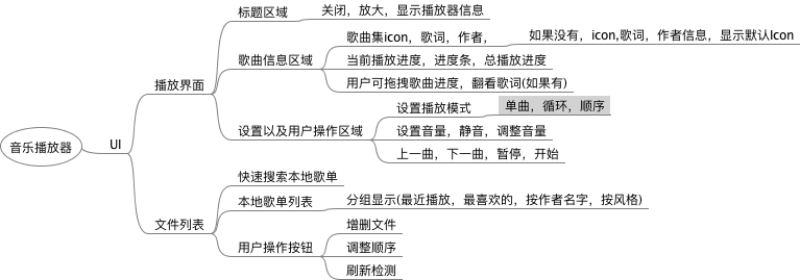
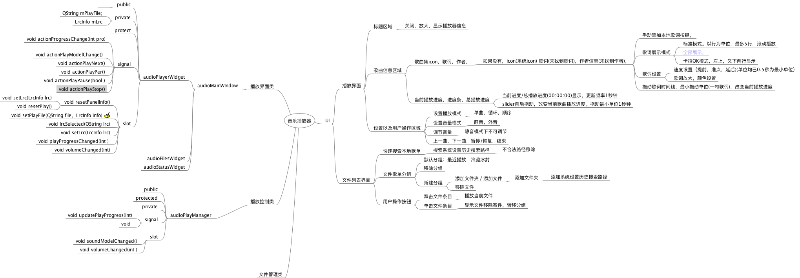
"音乐播放器重新设计"

diff --git a/音乐播放器.mm b/音乐播放器.mm
@@ -8,30 +8,149 @@
 </node>
 <node CREATED="1500030296156" ID="ID_917389368" MODIFIED="1500031225098" TEXT="&#x6b4c;&#x66f2;&#x4fe1;&#x606f;&#x533a;&#x57df;">
 <node CREATED="1500030436381" ID="ID_694683948" MODIFIED="1500030482228" TEXT="&#x6b4c;&#x66f2;&#x96c6;icon&#xff0c;&#x6b4c;&#x8bcd;&#xff0c;&#x4f5c;&#x8005;&#xff0c;">
-<node CREATED="1500031088463" ID="ID_466561370" MODIFIED="1500031114678" TEXT="&#x5982;&#x679c;&#x6ca1;&#x6709;&#xff0c;icon,&#x6b4c;&#x8bcd;&#xff0c;&#x4f5c;&#x8005;&#x4fe1;&#x606f;&#xff0c;&#x663e;&#x793a;&#x9ed8;&#x8ba4;Icon"/>
+<node CREATED="1500031088463" ID="ID_466561370" MODIFIED="1501053553922" TEXT="&#x5982;&#x679c;&#x6ca1;&#x6709;&#xff0c;icon(&#x7cfb;&#x7edf;icon),&#x6b4c;&#x8bcd;(&#x672a;&#x627e;&#x5230;&#x6b4c;&#x8bcd;)&#xff0c;&#x4f5c;&#x8005;&#x4fe1;&#x606f;(&#x672a;&#x627e;&#x5230;&#x4f5c;&#x8005;)&#xff0c;">
+<node CREATED="1501053889663" ID="ID_850002339" MODIFIED="1501055061875" TEXT="&#x624b;&#x52a8;&#x6dfb;&#x52a0;&#x672c;&#x5730;&#x6b4c;&#x8bcd;&#x6309;&#x952e;&#xff0c;"/>
+<node CREATED="1501054134580" ID="ID_1248785797" MODIFIED="1501054949606" TEXT="&#x6b4c;&#x8bcd;&#x5c55;&#x793a;&#x6a21;&#x5f0f;">
+<node CREATED="1501054952287" ID="ID_1415643732" MODIFIED="1501054959472" TEXT="&#x6807;&#x51c6;&#x6a21;&#x5f0f;&#x3002;&#x4ee5;&#x884c;&#x4e3a;&#x5355;&#x4f4d;&#xff0c;&#x6700;&#x591a;5&#x884c;&#xff0c;&#x6eda;&#x52a8;&#x64ad;&#x653e;"/>
+<node COLOR="#9999ff" CREATED="1501054960691" ID="ID_1306261576" MODIFIED="1501055294448" TEXT="&#x5168;&#x90e8;&#x5c55;&#x793a;&#xff0c;"/>
+<node CREATED="1501054963010" ID="ID_79463371" MODIFIED="1501055041005" TEXT="&#x5361;&#x62c9;OK&#x6a21;&#x5f0f;&#xff0c;&#x5de6;&#x4e0a;&#xff0c;&#x53c8;&#x4e0b;&#x4e24;&#x884c;&#x663e;&#x793a;"/>
 </node>
-<node CREATED="1500030488298" ID="ID_521864598" MODIFIED="1500030522131" TEXT="&#x5f53;&#x524d;&#x64ad;&#x653e;&#x8fdb;&#x5ea6;&#xff0c;&#x8fdb;&#x5ea6;&#x6761;&#xff0c;&#x603b;&#x64ad;&#x653e;&#x8fdb;&#x5ea6;"/>
-<node CREATED="1500031009672" ID="ID_1684232982" MODIFIED="1500031073856" TEXT="&#x7528;&#x6237;&#x53ef;&#x62d6;&#x62fd;&#x6b4c;&#x66f2;&#x8fdb;&#x5ea6;&#xff0c;&#x7ffb;&#x770b;&#x6b4c;&#x8bcd;(&#x5982;&#x679c;&#x6709;)"/>
+<node CREATED="1501055048910" ID="ID_665121807" MODIFIED="1501055053990" TEXT="&#x6b4c;&#x8bcd;&#x8bbe;&#x7f6e;">
+<node CREATED="1501055064392" ID="ID_624508143" MODIFIED="1501055105988" TEXT="&#x901f;&#x5ea6;&#x8bbe;&#x7f6e;&#xff08;&#x63d0;&#x524d;&#xff0c;&#x51c6;&#x70b9;&#xff0c;&#x5ef6;&#x540e;)(&#x5355;&#x4f4d;&#x5747;&#x5df2;0.5&#x79d2;&#x4e3a;&#x6700;&#x5c0f;&#x5355;&#x4f4d;&#xff09;"/>
+<node CREATED="1501054818237" ID="ID_1436672766" MODIFIED="1501054860050" TEXT="&#x6b4c;&#x8bcd;&#x653e;&#x5927;&#xff0c;&#x989c;&#x8272;&#x8bbe;&#x7f6e;"/>
+</node>
+<node CREATED="1501053953781" ID="ID_1228343725" MODIFIED="1501054086766" TEXT="&#x62d6;&#x52a8;&#x6b4c;&#x8bcd;&#x65f6;&#x95f4;&#x7ebf;&#xff0c;&#x6700;&#x5c0f;&#x62d6;&#x52a8;&#x5355;&#x4f4d;(&#x4e00;&#x53e5;&#x6b4c;&#x8bcd;)&#xff0c;&#x6539;&#x53d8;&#x5f53;&#x524d;&#x64ad;&#x653e;&#x8fdb;&#x5ea6;"/>
+</node>
+</node>
+<node CREATED="1500030488298" ID="ID_521864598" MODIFIED="1500030522131" TEXT="&#x5f53;&#x524d;&#x64ad;&#x653e;&#x8fdb;&#x5ea6;&#xff0c;&#x8fdb;&#x5ea6;&#x6761;&#xff0c;&#x603b;&#x64ad;&#x653e;&#x8fdb;&#x5ea6;">
+<node CREATED="1501053653091" ID="ID_271081858" MODIFIED="1501053700407" TEXT="&#x5f53;&#x524d;&#x8fdb;&#x5ea6;/&#x603b;&#x64ad;&#x653e;&#x8fdb;&#x5ea6;(00:00:00)&#x663e;&#x793a;&#xff0c;&#x66f4;&#x65b0;&#x9891;&#x7387;1&#x79d2;&#x949f;"/>
+<node CREATED="1501053703775" ID="ID_1660412101" MODIFIED="1501053798619" TEXT="slider&#x524d;&#x540e;&#x62d6;&#x52a8;&#xff0c;&#x6539;&#x53d8;&#x5f53;&#x524d;&#x6b4c;&#x66f2;&#x64ad;&#x653e;&#x8fdb;&#x5ea6;&#x3002;&#x62d6;&#x52a8;&#x6700;&#x5c0f;&#x5355;&#x4f4d;1&#x79d2;&#x949f;"/>
+</node>
 </node>
 <node CREATED="1500030332123" ID="ID_783551243" MODIFIED="1500030386535" TEXT="&#x8bbe;&#x7f6e;&#x4ee5;&#x53ca;&#x7528;&#x6237;&#x64cd;&#x4f5c;&#x533a;&#x57df;">
 <node CREATED="1500030535875" ID="ID_1299892897" MODIFIED="1500030551703" TEXT="&#x8bbe;&#x7f6e;&#x64ad;&#x653e;&#x6a21;&#x5f0f;">
 <node CREATED="1500030552677" ID="ID_1131224533" MODIFIED="1500030565647" TEXT="&#x5355;&#x66f2;&#xff0c;&#x5faa;&#x73af;&#xff0c;&#x987a;&#x5e8f;"/>
 </node>
-<node CREATED="1500030601392" ID="ID_8305101" MODIFIED="1500030622719" TEXT="&#x8bbe;&#x7f6e;&#x97f3;&#x91cf;&#xff0c;&#x9759;&#x97f3;&#xff0c;&#x8c03;&#x6574;&#x97f3;&#x91cf;"/>
-<node CREATED="1500030582561" ID="ID_480266961" MODIFIED="1500030600814" TEXT="&#x4e0a;&#x4e00;&#x66f2;&#xff0c;&#x4e0b;&#x4e00;&#x66f2;&#xff0c;&#x6682;&#x505c;&#xff0c;&#x5f00;&#x59cb;"/>
+<node CREATED="1500030601392" ID="ID_8305101" MODIFIED="1501055385842" TEXT="&#x8bbe;&#x7f6e;&#x97f3;&#x91cf;&#x6a21;&#x5f0f;">
+<node CREATED="1501055387032" ID="ID_349311549" MODIFIED="1501055398600" TEXT="&#x9759;&#x97f3;&#xff0c;&#x5916;&#x97f3;"/>
+</node>
+<node CREATED="1501055402220" ID="ID_1495423752" MODIFIED="1501055409962" TEXT="&#x8c03;&#x8282;&#x97f3;&#x91cf;">
+<node CREATED="1501055411240" ID="ID_1967748018" MODIFIED="1501055429335" TEXT="&#x9759;&#x97f3;&#x6a21;&#x5f0f;&#x4e0b;&#x4e0d;&#x53ef;&#x8c03;&#x8282;"/>
+</node>
+<node CREATED="1500030582561" ID="ID_480266961" MODIFIED="1501055353126" TEXT="&#x4e0a;&#x4e00;&#x66f2;&#xff0c;&#x4e0b;&#x4e00;&#x66f2;&#xff0c;&#x6682;&#x505c;/&#x6062;&#x590d;&#xff0c;&#x7ed3;&#x675f;"/>
 </node>
 </node>
-<node CREATED="1500030270397" ID="ID_158710062" MODIFIED="1500030275868" TEXT="&#x6587;&#x4ef6;&#x5217;&#x8868;">
-<node CREATED="1500030699980" ID="ID_1629453615" MODIFIED="1500030710165" TEXT="&#x5feb;&#x901f;&#x641c;&#x7d22;&#x672c;&#x5730;&#x6b4c;&#x5355;"/>
-<node CREATED="1500030711512" ID="ID_1740644909" MODIFIED="1500030719198" TEXT="&#x672c;&#x5730;&#x6b4c;&#x5355;&#x5217;&#x8868;">
-<node CREATED="1500030807890" ID="ID_588803215" MODIFIED="1500030897512" TEXT="&#x5206;&#x7ec4;&#x663e;&#x793a;(&#x6700;&#x8fd1;&#x64ad;&#x653e;&#xff0c;&#x6700;&#x559c;&#x6b22;&#x7684;&#xff0c;&#x6309;&#x4f5c;&#x8005;&#x540d;&#x5b57;&#xff0c;&#x6309;&#x98ce;&#x683c;)"/>
+<node CREATED="1500030270397" ID="ID_158710062" MODIFIED="1501055498871" TEXT="&#x6587;&#x4ef6;&#x5217;&#x8868;&#x754c;&#x9762;">
+<node CREATED="1500030699980" ID="ID_1629453615" MODIFIED="1500030710165" TEXT="&#x5feb;&#x901f;&#x641c;&#x7d22;&#x672c;&#x5730;&#x6b4c;&#x5355;">
+<node CREATED="1501056075339" ID="ID_1009629300" MODIFIED="1501056096844" TEXT="&#x641c;&#x7d22;&#x7cfb;&#x7edf;&#x8bbe;&#x7f6e;&#x5386;&#x53f2;&#x641c;&#x7d22;&#x8def;&#x5f84;">
+<node CREATED="1501056098056" ID="ID_1697040321" MODIFIED="1501056106700" TEXT="&#x4e0d;&#x5408;&#x6cd5;&#x8def;&#x5f84;&#x79fb;&#x9664;"/>
+</node>
+</node>
+<node CREATED="1501055854607" ID="ID_958534794" MODIFIED="1501055932427" TEXT="&#x6587;&#x4ef6;&#x6b4c;&#x5355;&#x5206;&#x7ec4;">
+<node CREATED="1501055881390" ID="ID_1618897731" MODIFIED="1501056382168" TEXT="&#x9ed8;&#x8ba4;&#x5206;&#x7ec4;&#xff1a;&#x6700;&#x8fd1;&#x64ad;&#x653e;&#xff0c;&#x51b7;&#x85cf;&#x51b0;&#x5c01;"/>
+<node CREATED="1501055961808" ID="ID_1040854984" MODIFIED="1501055968280" TEXT="&#x79fb;&#x9664;&#x5206;&#x7ec4;"/>
+<node CREATED="1501055898808" ID="ID_1194148156" MODIFIED="1501055988875" TEXT="&#x65b0;&#x5efa;&#x5206;&#x7ec4;">
+<node CREATED="1501055762932" ID="ID_1180794342" MODIFIED="1501056255439" TEXT="&#x6dfb;&#x52a0;&#x6587;&#x4ef6;&#x5939;&#xff0f;&#x6dfb;&#x52a0;&#x6587;&#x4ef6;">
+<node CREATED="1501055784743" ID="ID_1355728120" MODIFIED="1501055792520" TEXT="&#x6dfb;&#x52a0;&#x6587;&#x4ef6;&#x5939;">
+<node CREATED="1501055795590" ID="ID_1108940731" MODIFIED="1501055820308" TEXT="&#x6dfb;&#x52a0;&#x7cfb;&#x7edf;&#x8bbe;&#x7f6e;&#x5386;&#x53f2;&#x641c;&#x7d22;&#x8def;&#x5f84;"/>
+</node>
+</node>
+<node CREATED="1501055973922" ID="ID_1573797008" MODIFIED="1501055977785" TEXT="&#x79fb;&#x9664;&#x6587;&#x4ef6;"/>
+</node>
 </node>
 <node CREATED="1500030719556" ID="ID_1897009687" MODIFIED="1500030736917" TEXT="&#x7528;&#x6237;&#x64cd;&#x4f5c;&#x6309;&#x94ae;">
-<node CREATED="1500030738240" ID="ID_1147327069" MODIFIED="1500030745490" TEXT="&#x589e;&#x5220;&#x6587;&#x4ef6;"/>
-<node CREATED="1500030746124" ID="ID_1846266305" MODIFIED="1500030754479" TEXT="&#x8c03;&#x6574;&#x987a;&#x5e8f;"/>
-<node CREATED="1500030759232" ID="ID_843149659" MODIFIED="1500030770195" TEXT="&#x5237;&#x65b0;&#x68c0;&#x6d4b;"/>
+<node CREATED="1501056413866" ID="ID_1506175571" MODIFIED="1501056790081" TEXT="&#x53cc;&#x51fb;&#x6587;&#x4ef6;&#x6761;&#x76ee;">
+<node CREATED="1501056426389" ID="ID_665519305" MODIFIED="1501056435392" TEXT="&#x64ad;&#x653e;&#x5f53;&#x524d;&#x6587;&#x4ef6;"/>
+</node>
+<node CREATED="1501056451621" ID="ID_1346512451" MODIFIED="1501056794911" TEXT="&#x5355;&#x51fb;&#x6587;&#x4ef6;&#x6761;&#x76ee;">
+<node CREATED="1501056458562" ID="ID_652609303" MODIFIED="1501056501614" TEXT="&#x663e;&#x793a;&#x6587;&#x4ef6;&#x79fb;&#x9664;&#x6848;&#x4ef6;&#xff0c;&#x8f6c;&#x79fb;&#x5206;&#x7ec4;"/>
 </node>
 </node>
 </node>
+</node>
+<node CREATED="1501056551206" ID="ID_518259958" MODIFIED="1501059303447" POSITION="left" TEXT="&#x64ad;&#x653e;&#x754c;&#x9762;&#x7c7b;">
+<node CREATED="1501056565811" ID="ID_291876960" MODIFIED="1501056642511" TEXT="audioMainWIndow">
+<node CREATED="1501056604017" ID="ID_1776569559" MODIFIED="1501056691100" TEXT="audioPlayerWidget">
+<node CREATED="1501056855267" ID="ID_1564065254" MODIFIED="1501056861876" TEXT="public">
+<node CREATED="1501056952891" ID="ID_1335900684" MODIFIED="1501056952891" TEXT=""/>
+</node>
+<node CREATED="1501056866062" ID="ID_1391470764" MODIFIED="1501056870223" TEXT="private">
+<node CREATED="1501057881629" ID="ID_1991158903" MODIFIED="1501057895776" TEXT="QString mPlayFile;"/>
+<node CREATED="1501059271673" ID="ID_1784898173" MODIFIED="1501059287316" TEXT="LrcInfo mLrc"/>
+</node>
+<node CREATED="1501056870713" ID="ID_104789017" MODIFIED="1501056876478" TEXT="protect"/>
+<node CREATED="1501056879395" ID="ID_275023799" MODIFIED="1501056881867" TEXT="signal">
+<node CREATED="1501057814655" HGAP="19" ID="ID_1961598661" MODIFIED="1501059385698" TEXT="void actionProgressChange(int pro)" VSHIFT="-9"/>
+<node CREATED="1501057991978" HGAP="26" ID="ID_53711246" MODIFIED="1501059377294" TEXT="void actionPlayModelChange()" VSHIFT="9"/>
+<node CREATED="1501058049469" ID="ID_257193637" MODIFIED="1501058130441" TEXT="void actionPlayNext()"/>
+<node CREATED="1501058131246" ID="ID_120057340" MODIFIED="1501058139925" TEXT="void actionPlayPer()"/>
+<node CREATED="1501058156792" ID="ID_48936866" MODIFIED="1501058183125" TEXT="void actionPlayPause(bool )"/>
+<node CREATED="1501058184389" ID="ID_370467350" MODIFIED="1501058207628" TEXT="void actionPlayStop()"/>
+</node>
+<node CREATED="1501056882895" ID="ID_1967915167" MODIFIED="1501056887976" TEXT="slot">
+<node CREATED="1501057404831" ID="ID_1531658974" MODIFIED="1501057434232" TEXT="void resetPanelInfo()">
+<node CREATED="1501057435746" ID="ID_866113046" MODIFIED="1501059185346" TEXT="void setLrc(LrcInfo lrc)"/>
+<node CREATED="1501057526082" ID="ID_553058632" MODIFIED="1501057759133" TEXT="void resetPlay()"/>
+</node>
+<node CREATED="1501057827484" ID="ID_1908626960" MODIFIED="1501059129837" TEXT="void setPlayFile(QString file&#xff0c;LrcInfo info)">
+<richcontent TYPE="NOTE"><html>
+  <head>
+    
+  </head>
+  <body>
+    <p>
+      struct LrcInfo
+    </p>
+    <p>
+      {
+    </p>
+    <p>
+      QString audioName;
+    </p>
+    <p>
+      uint totalTime;
+    </p>
+    <p>
+      QString autor;
+    </p>
+    <p>
+      QString icon;
+    </p>
+    <p>
+      QString data;
+    </p>
+    <p>
+      }
+    </p>
+  </body>
+</html>
+</richcontent>
+</node>
+<node CREATED="1501058957628" ID="ID_165015525" MODIFIED="1501059058985" TEXT="void lrcSelected(QString lrc)"/>
+<node CREATED="1501059059529" ID="ID_451219978" MODIFIED="1501059096763" TEXT="void setLrc(LrcInfo lrc)"/>
+<node CREATED="1501059349793" ID="ID_1768822972" MODIFIED="1501059453850" TEXT="void playProgressChanged(int ) "/>
+<node CREATED="1501059513144" ID="ID_1532597229" MODIFIED="1501059532938" TEXT="void volumeChanged(int)"/>
+</node>
+</node>
+<node CREATED="1501056691927" ID="ID_1629958325" MODIFIED="1501056710023" TEXT="audioFilesWidget"/>
+<node CREATED="1501056720375" ID="ID_373220747" MODIFIED="1501056729733" TEXT="audioStatusWIdget"/>
+</node>
+</node>
+<node CREATED="1501056899029" ID="ID_801597901" MODIFIED="1501056930056" POSITION="left" TEXT="&#x64ad;&#x653e;&#x63a7;&#x5236;&#x7c7b;">
+<node CREATED="1501059550967" HGAP="87" ID="ID_1390876318" MODIFIED="1501059624298" TEXT="audioPlayManager" VSHIFT="37">
+<node CREATED="1501059575938" ID="ID_746042154" MODIFIED="1501059584070" TEXT="public"/>
+<node CREATED="1501059584825" ID="ID_1947444750" MODIFIED="1501059589425" TEXT="protected"/>
+<node CREATED="1501059590947" ID="ID_158368439" MODIFIED="1501059593148" TEXT="private"/>
+<node CREATED="1501059595377" ID="ID_1840696135" MODIFIED="1501059603813" TEXT="signal">
+<node CREATED="1501059766650" ID="ID_954011461" MODIFIED="1501059808350" TEXT="void updatePlayProgress(int)"/>
+<node CREATED="1501059842271" ID="ID_1178287069" MODIFIED="1501059856940" TEXT="void "/>
+</node>
+<node CREATED="1501059604119" ID="ID_60167541" MODIFIED="1501059605906" TEXT="slot">
+<node CREATED="1501058230444" ID="ID_551247886" MODIFIED="1501059932866" TEXT="void soundModelChanged()" VSHIFT="22"/>
+<node CREATED="1501059920992" ID="ID_34532705" MODIFIED="1501060072985" TEXT="void volumeChanged(int )"/>
+</node>
+</node>
+</node>
+<node CREATED="1501056913072" HGAP="-2" ID="ID_558687772" MODIFIED="1501059242525" POSITION="left" TEXT="&#x6587;&#x4ef6;&#x7ba1;&#x7406;&#x7c7b;" VSHIFT="41"/>
 </node>
 </map>
